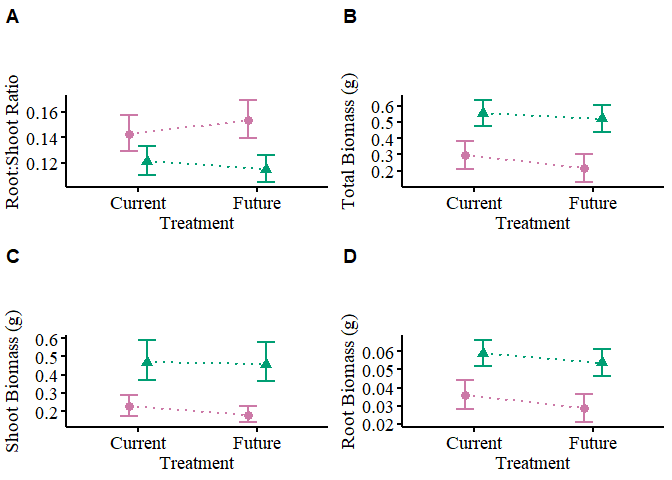
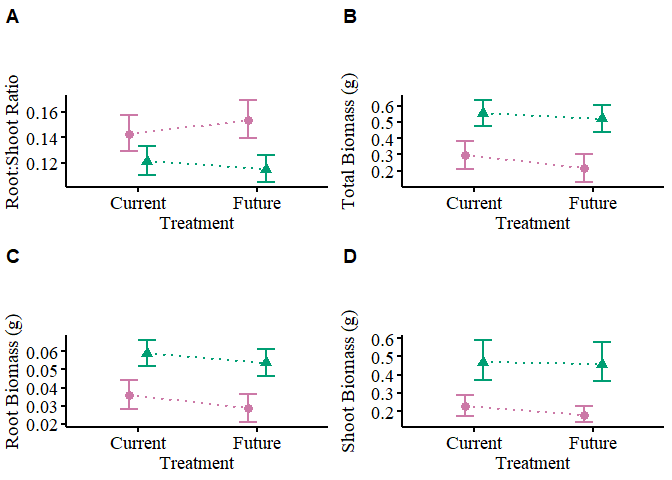
check outliers. update figures

diff --git a/03_Figures.html b/03_Figures.html
@@ -11,7 +11,7 @@
 
 <meta name="author" content="Sophie Buysse" />
 
-<meta name="date" content="2026-03-18" />
+<meta name="date" content="2026-03-19" />
 
 <title>03_Figures</title>
 
@@ -1481,7 +1481,7 @@ border-radius: 0px;
 
 <h1 class="title toc-ignore">03_Figures</h1>
 <h4 class="author">Sophie Buysse</h4>
-<h4 class="date">2026-03-18</h4>
+<h4 class="date">2026-03-19</h4>
 
 </div>
 
@@ -1877,14 +1877,14 @@ Draft 3 figures updated 7/30/2025<br />
 #vjust = 00
 fig1</code></pre>
[1 lines of base64/hex data omitted]
-<pre class="r"><code>fig2 &lt;- ggarrange(rs, totbio, ros_2022, bg,
+<pre class="r"><code>fig2 &lt;- ggarrange(rs, totbio, bg, ros_2022, 
                   labels = c(&quot;A&quot;, &quot;B&quot;, &quot;C&quot;, &quot;D&quot;),
                   ncol = 2, nrow = 2,
                   common.legend = TRUE,
                   legend = &quot;none&quot;,
                   align = &quot;hv&quot;)
 fig2</code></pre>
[2 lines of base64/hex data omitted]
 <pre class="r"><code>fitness_fig &lt;- ggarrange(fruits, seed_per_fruit, fitness,
                   labels = c(&quot;A&quot;, &quot;B&quot;, &quot;C&quot;),
                   ncol = 3, nrow = 1,

diff --git a/03_Figures.md b/03_Figures.md
@@ -1,7 +1,7 @@
 ---
 title: "03_Figures"
 author: "Sophie Buysse"
-date: "2026-03-18"
+date: "2026-03-19"
 output: 
   html_document:
     toc: true
@@ -526,7 +526,7 @@ fig1
 ![](03_Figures_files/figure-html/unnamed-chunk-46-1.png)<!-- -->
 
 ``` r
-fig2 <- ggarrange(rs, totbio, ros_2022, bg,
+fig2 <- ggarrange(rs, totbio, bg, ros_2022, 
                   labels = c("A", "B", "C", "D"),
                   ncol = 2, nrow = 2,
                   common.legend = TRUE,
